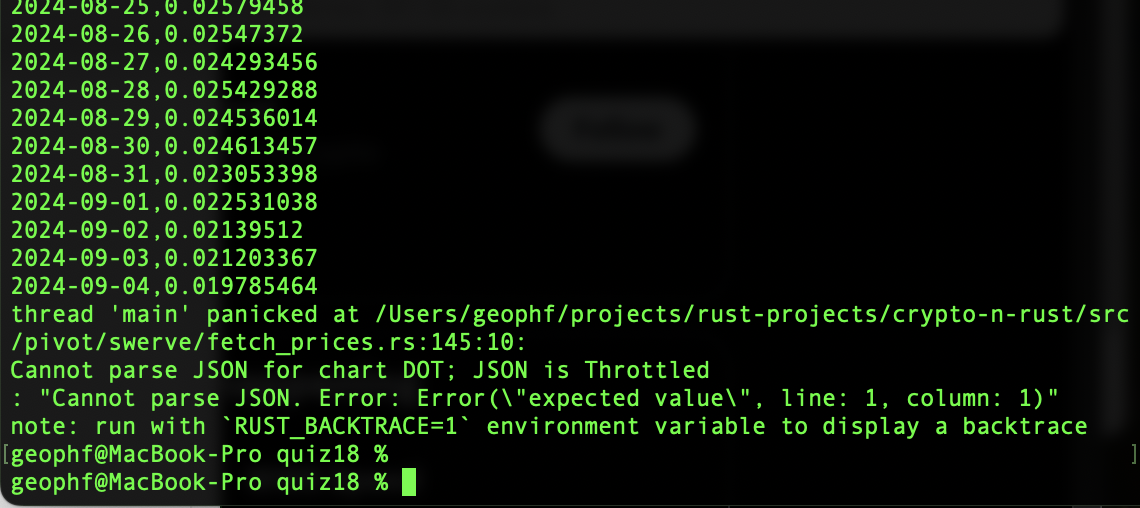
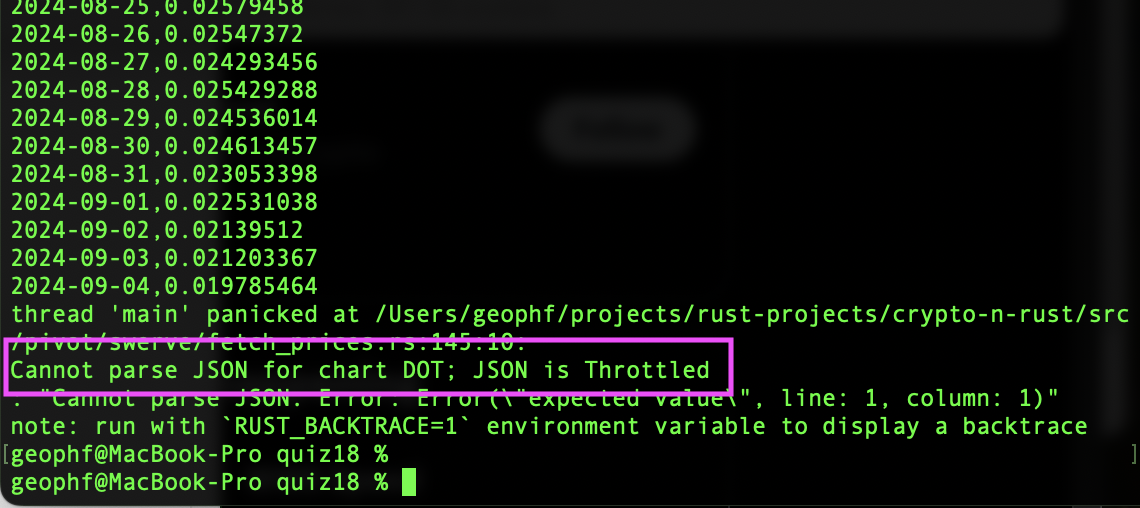
Highlighed the throttled call response

Changed region(s): [[0.0, 0.6496, 0.6447, 0.7972]]

diff --git a/src/pivot/quizzes/quiz18/BUIDLn.md b/src/pivot/quizzes/quiz18/BUIDLn.md
@@ -97,7 +97,7 @@ Going forward we need to:
 The first one is easy enough. The second one can be shunted OFT! into its own 
 quizzy-whizzy. Let's start with the first one, then.
 
-## Pivot quiz 18.d: throttling REST endpoint calls
+## Pivot quiz 18.d: throttled REST endpoint
 
 OOPHDA! I thought the quiz was going to be replacing a call to `first()` 
 (-...equivalent) with a `for`-loop.
